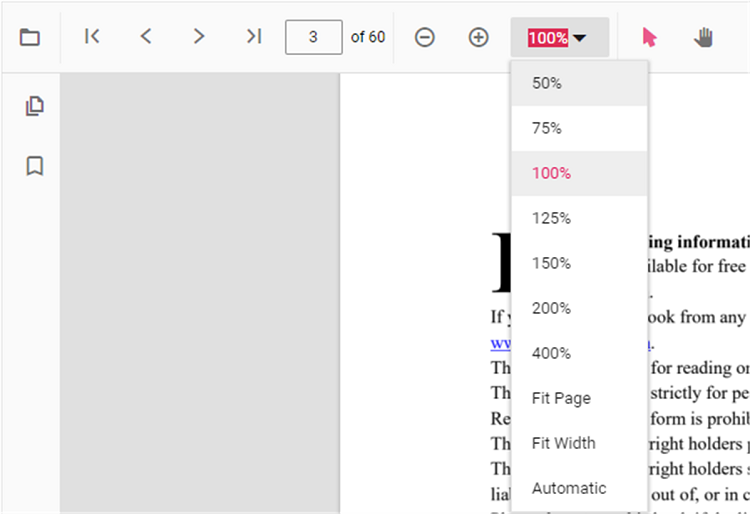
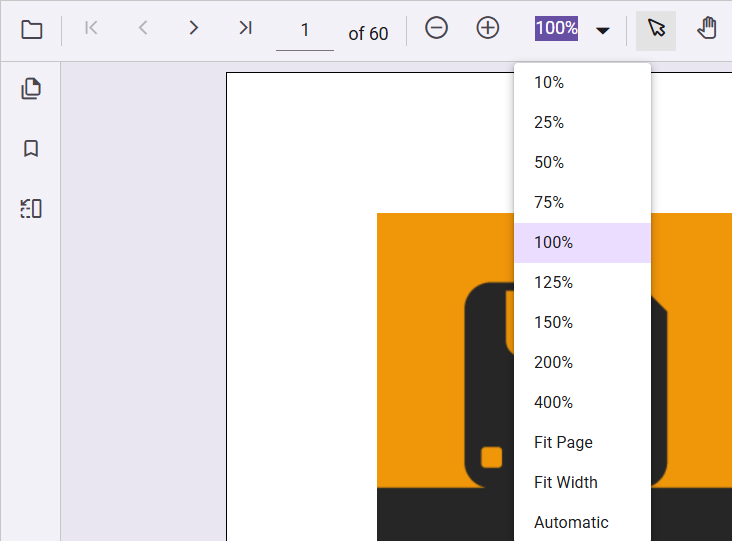
Integrated latest changes at 07-23-2025 1:30:11 AM

diff --git a/ej2-angular/samples/rich-text-editor/getting-started-cs30/index.html b/ej2-angular/samples/rich-text-editor/getting-started-cs30/index.html
@@ -128,5 +128,5 @@
     <app-root>
         <div id="loader">Loading....</div>
     </app-root>
-<script src="runtime.cf3bdadb8fd8abdc.js" type="module"></script><script src="main.897a8398c972f9fa.js" type="module"></script></body>
+<script src="runtime.cf3bdadb8fd8abdc.js" type="module"></script><script src="main.8ba5f3e6c3088e14.js" type="module"></script></body>
 </html>

diff --git a/ej2-angular/browser.md b/ej2-angular/browser.md
@@ -26,7 +26,7 @@ The following table lists the minimum supported versions for various browsers:
 
 > Note: "Latest" refers to the most recent stable version of the browser.
 
-For the most up-to-date information on supported browsers, please refer to the official Angular documentation on [Supported Browsers](https://v17.angular.io/guide/browser-support#supported-browsers).
+For the most up-to-date information on supported browsers, please refer to the official Angular documentation on [Supported Browsers](https://angular.dev/reference/versions#browser-support).
 
 ## Modern Web Development and Browser Support
 
@@ -49,7 +49,7 @@ While IE11 is supported, developers should be aware of the following:
 - As IE11 usage continues to decline, consider the necessity of extensive IE11 support in new projects.
 
 For detailed information on polyfills and browser support in Angular, refer to the official Angular documentation:
-- [Angular Versions and Polyfills](https://angular.dev/reference/versions#polyfills)
+- [Angular Versions and Polyfills](https://angular.dev/reference/versions#actively-supported-versions)
   
 
 ## Additional Resources

diff --git a/ej2-angular/frameworks-and-feature/lazy-loading-support.md b/ej2-angular/frameworks-and-feature/lazy-loading-support.md
@@ -29,7 +29,7 @@ src/
 
 ## Creating a Syncfusion<sup style="font-size:70%">&reg;</sup> component in Angular
 
-Begin developing your Angular application with Syncfusion<sup style="font-size:70%">&reg;</sup> components by following the [getting started guide](https://ej2.syncfusion.com/angular/documentation/getting-started/angular-cli). Additionally, refer to the Angular [lazy-loading documentation](https://v17.angular.io/guide/lazy-loading-ngmodules) for a comprehensive understanding of implementing lazy loading.
+Begin developing your Angular application with Syncfusion<sup style="font-size:70%">&reg;</sup> components by following the [getting started guide](https://ej2.syncfusion.com/angular/documentation/getting-started/angular-cli). Additionally, refer to the Angular [lazy-loading documentation](https://v18.angular.dev/guide/ngmodules/lazy-loading) for a comprehensive understanding of implementing lazy loading.
 
 ## Project Setup
 
@@ -528,7 +528,7 @@ The `RouterModule` provides essential functionality for routing, allowing seamle
 - **Routing Errors**: Confirm that `RouterModule` is imported in `app.module.ts` (for module-based) or `app.component.ts` (for standalone). Check that route paths in `app-routing.module.ts` or `app.routes.ts` match the `routerLink` values.
 - **Syncfusion<sup style="font-size:70%">&reg;</sup> Component Errors**: Ensure you have a valid Syncfusion<sup style="font-size:70%">&reg;</sup> license and that the correct Syncfusion<sup style="font-size:70%">&reg;</sup> packages are installed.
 
-For additional help, refer to the [Angular Documentation](https://v17.angular.io/guide/lazy-loading-ngmodules) or [Syncfusion<sup style="font-size:70%">&reg;</sup> Angular Documentation](https://ej2.syncfusion.com/angular/documentation/getting-started/angular-cli).
+For additional help, refer to the [Angular Documentation](https://v18.angular.dev/guide/ngmodules/lazy-loading) or [Syncfusion<sup style="font-size:70%">&reg;</sup> Angular Documentation](https://ej2.syncfusion.com/angular/documentation/getting-started/angular-cli).
 
 ## Benefits of Lazy Loading
 

diff --git a/ej2-angular/frameworks-and-feature/server-side-rendering.md b/ej2-angular/frameworks-and-feature/server-side-rendering.md
@@ -16,7 +16,7 @@ This guide explains how to use Angular Universal in conjunction with Syncfusion<
 
 ## What is Angular Universal
 
-[Angular Universal](https://v17.angular.io/guide/ssr) is a server-side rendering technology for Angular components that pre-renders HTML on the server and sends it to the client. This ensures quicker time-to-interactive, better SEO, and improved accessibility—especially beneficial for slower networks or devices.
+[Angular Universal](https://angular.dev/guide/ssr) is a server-side rendering technology for Angular components that pre-renders HTML on the server and sends it to the client. This ensures quicker time-to-interactive, better SEO, and improved accessibility—especially beneficial for slower networks or devices.
 
 ## Why use Server-side Rendering
 
@@ -132,7 +132,7 @@ export class AppComponent {
 
 ### Enable hydration
 
-After installing the above command, enable Client [Hydration](https://v17.angular.io/guide/hydration). Hydration is the process that restores the server-side rendered application on the client. To enable hydration, import the [provideClientHydration](https://v17.angular.io/api/platform-browser/provideClientHydration)  function and add it to the `providers` section of the `app.module.ts` file as shown below.
+After installing the above command, enable Client [Hydration](https://angular.dev/guide/hydration). Hydration is the process that restores the server-side rendered application on the client. To enable hydration, import the [provideClientHydration](https://angular.dev/guide/hydration)  function and add it to the `providers` section of the `app.module.ts` file as shown below.
 
 
 ```ts

diff --git a/ej2-angular/system-requirement.md b/ej2-angular/system-requirement.md
@@ -51,6 +51,7 @@ The table below shows which Syncfusion<sup style="font-size:70%">&reg;</sup> Ang
 
 | Angular Version | Minimum Syncfusion<sup style="font-size:70%">&reg;</sup> Angular Components Version |
 |-----------------|-----------------------------------------------|
+|[Angular v20](https://www.syncfusion.com/blogs/post/whats-new-in-angular-20)| 30.1.37|
 |[ Angular v19](https://blog.angular.dev/meet-angular-v19-7b29dfd05b84/)| 26.1.35 |
 | [Angular v18](https://blog.angular.dev/angular-v18-is-now-available-e79d5ac0affe/) | 25.2.3 |
 | [Angular v17](https://blog.angular.io/introducing-angular-v17-4d7033312e4b/)| 23.2.4 |
@@ -67,6 +68,6 @@ The table below shows which Syncfusion<sup style="font-size:70%">&reg;</sup> Ang
 
 - [Upgrading Syncfusion<sup style="font-size:70%">&reg;</sup> Components](https://ej2.syncfusion.com/angular/documentation/upgrade/upgrading-syncfusion): Instructions for upgrading Syncfusion<sup style="font-size:70%">&reg;</sup> components to the latest version.
 
-- [Setting Up the Development Environment](https://v17.angular.io/guide/setup-local): Official Angular guide on setting up a local development environment.
+- [Setting Up the Development Environment](https://angular.dev/installation#instructions): Official Angular guide on setting up a local development environment.
 
 - [Syncfusion<sup style="font-size:70%">&reg;</sup> Angular Getting Started Guide](https://ej2.syncfusion.com/angular/documentation/getting-started/angular-cli): Step-by-step instructions to start using Syncfusion<sup style="font-size:70%">&reg;</sup> Angular components in a project.

diff --git a/ej2-angular/frameworks-and-feature/electron.md b/ej2-angular/frameworks-and-feature/electron.md
@@ -24,7 +24,7 @@ If the `Electron CLI` is not installed, refer to the [`Electron package`](https:
 
 ## Set Up Angular Environment
 
-You can follow the [Setting up the local environment and workspace](https://v17.angular.io/guide/setup-local) guide.
+You can follow the [Setting up the local environment and workspace](https://angular.dev/installation#prerequisites) guide.
 
 Install the Electron framework by using the following command:
 

diff --git a/ej2-angular/pdfviewer/magnification.md b/ej2-angular/pdfviewer/magnification.md
@@ -92,7 +92,7 @@ The following magnification options are available in the default toolbar of PDF 
 
 ![Alt text ](images/zoom.png)
 
->PDF Viewer can support the zoom value ranges from 50 to 400.
+>PDF Viewer can support the zoom value ranges from 10 to 400.
 
 ## See also
 

diff --git a/ej2-angular/ui-kit/build-your-first-angular-app-with-blocks.md b/ej2-angular/ui-kit/build-your-first-angular-app-with-blocks.md
@@ -21,7 +21,7 @@ Before diving into the setup, let's explore a **real-life use case** — buildin
 Once you’ve seen this use case in action, the next step is to set up an Angular app and integrate Syncfusion<sup style="font-size:70%">&reg;</sup> UI Kit blocks.
 
 ## Create a new Angular app
-To create a new Angular app, refer to the official Angular setup guide [here](https://v17.angular.io/guide/setup-local) to get started. In this example, I have created a new Angular app named **my-angular-app** and will walk you through the step-by-step process of adding a simple sign-in block.
+To create a new Angular app, refer to the official Angular setup guide [here](https://angular.dev/installation#instructions) to get started. In this example, I have created a new Angular app named **my-angular-app** and will walk you through the step-by-step process of adding a simple sign-in block.
 
 ![New Angular App](images/new-angular-app.png)
 